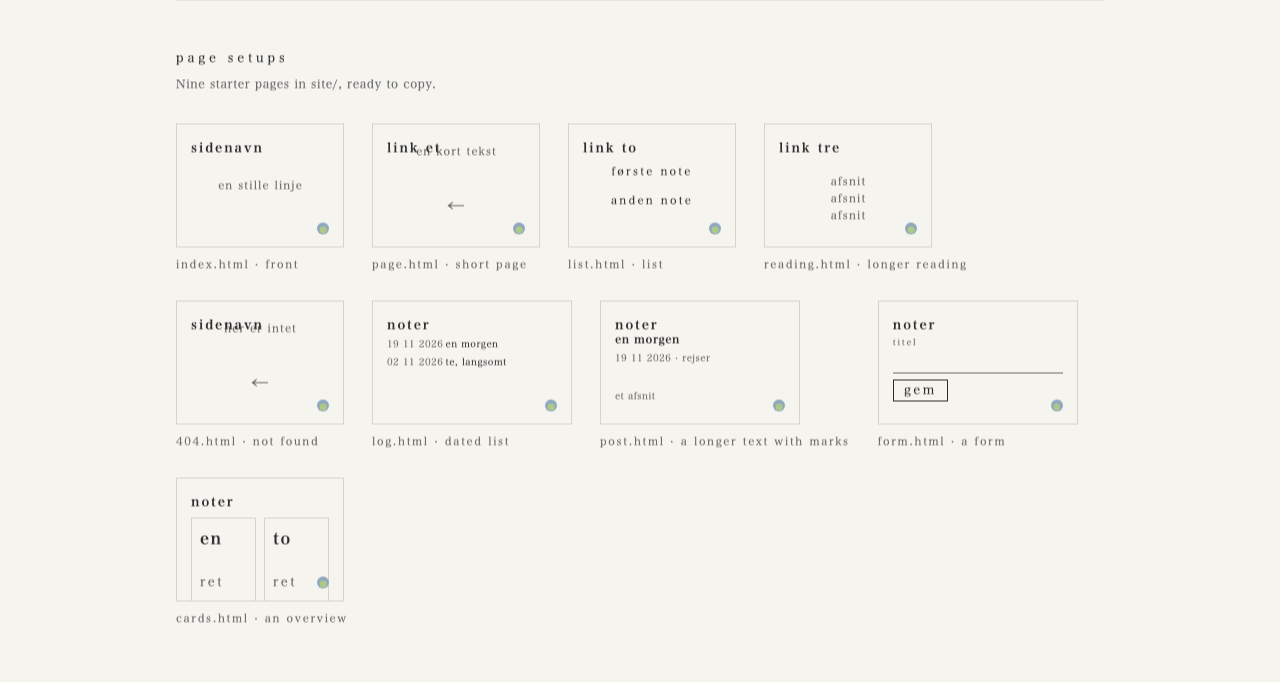
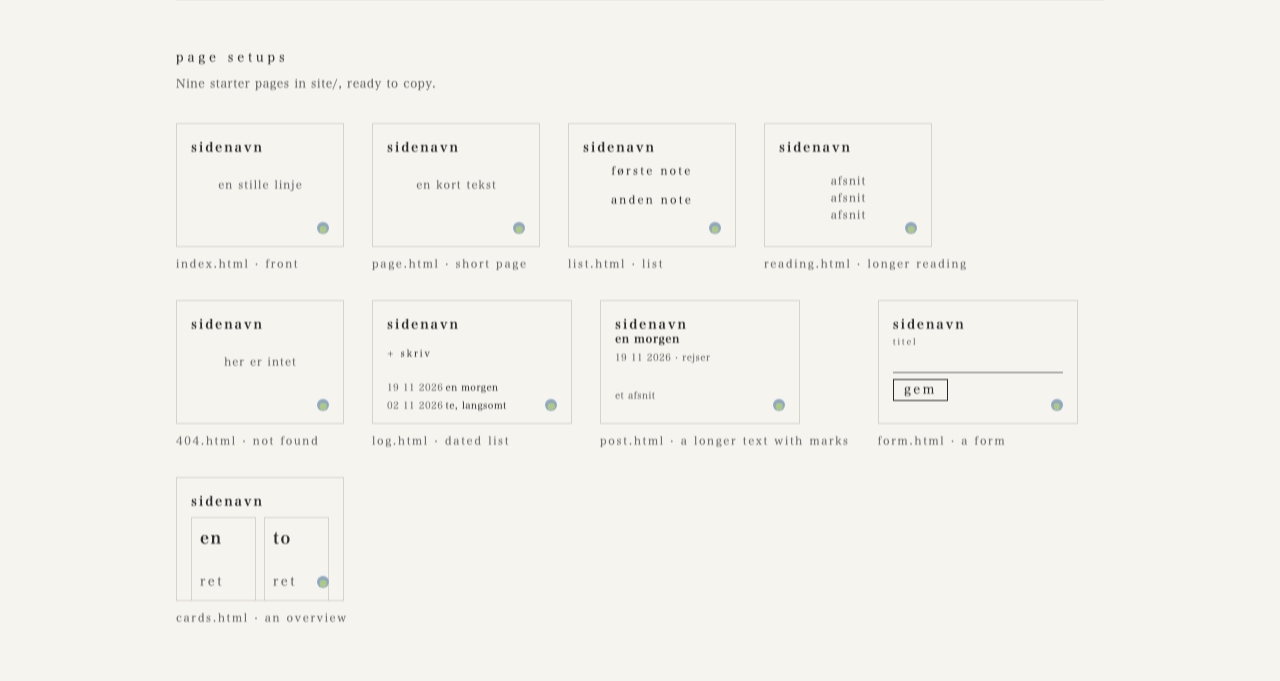
feat: corner title home, current page underlined, add link, stamp as a link; back arrow deprecated (1.6.0)

diff --git a/specimen/index.html b/specimen/index.html
@@ -76,15 +76,18 @@
     <h2>pieces, in every state</h2>
     <p>The real theme pieces. Hover, focus and selection are drawn still so you can see them without touching. The last row is live: hover it, or reach it with Tab.</p>
     <div class="grid" lang="da" inert>
-      <div><div class="frame"><nav class="menu"><ul class="menu-links"><li><a href="#" aria-current="page">et</a></li><li><span class="dot">·</span><a href="#">to</a></li></ul><details class="more"><summary>…</summary></details></nav></div><p class="cap" lang="en">menu · current page in ink</p></div>
+      <div><div class="frame"><nav class="menu"><ul class="menu-links"><li><a href="#" aria-current="page">et</a></li><li><span class="dot">·</span><a href="#">to</a></li></ul><details class="more"><summary>…</summary></details></nav></div><p class="cap" lang="en">menu · current page underlined</p></div>
       <div><div class="frame"><nav class="menu"><details class="more" open><summary>…</summary><ul><li><a href="#">link fire</a></li><li><a href="#">link fem</a></li></ul></details></nav></div><p class="cap" lang="en">… open</p></div>
       <div><div class="frame"><nav class="menu"><ul class="menu-links"><li><a href="#" class="show-hover">et</a></li><li><span class="dot">·</span><a href="#" class="show-focus">to</a></li></ul></nav></div><p class="cap" lang="en">hover (et) · focus (to)</p></div>
       <div><div class="frame"><form class="menu lock"><label class="lock-icon"><svg width="12" height="14" viewBox="0 0 16 18" fill="none" stroke="currentColor" stroke-width="1.2" focusable="false"><rect x="2" y="8" width="12" height="9" rx="1"/><path d="M4.5 8V5.5a3.5 3.5 0 0 1 7 0V8"/></svg></label></form></div><p class="cap" lang="en">lock closed</p></div>
       <div><div class="frame"><form class="menu lock" data-open><input class="lock-field" type="text" placeholder="adgangskode" aria-label="adgangskode"></form></div><p class="cap" lang="en">lock open</p></div>
-      <div><div class="frame"><main class="center"><p class="line">en <span class="show-selection">stille</span> linje</p><a class="back" href="#">←</a></main></div><p class="cap" lang="en">selection · back arrow</p></div>
+      <div><div class="frame"><main class="center"><p class="line">en <span class="show-selection">stille</span> linje</p></main></div><p class="cap" lang="en">selection</p></div>
+      <div><div class="frame"><main class="center"><a class="name" href="#">sidenavn</a><p class="line">en stille linje</p></main></div><p class="cap" lang="en">corner title · a link home</p></div>
       <div><div class="frame"><main class="center"><p class="line">en stille linje</p><span class="stamp"></span></main></div><p class="cap" lang="en">stamp, bottom right</p></div>
+      <div><div class="frame"><main class="center"><p class="line">en stille linje</p><a class="stamp show-focus" href="#"></a></main></div><p class="cap" lang="en">stamp as a link · focus</p></div>
       <div><div class="frame"><div class="menu"><form class="lock"><label class="lock-icon"><svg width="12" height="14" viewBox="0 0 16 18" fill="none" stroke="currentColor" stroke-width="1.2" focusable="false"><rect x="2" y="8" width="12" height="9" rx="1"/><path d="M4.5 8V5.5a3.5 3.5 0 0 1 7 0V8"/></svg></label></form><a class="menu-side" href="#">noter</a></div></div><p class="cap" lang="en">side link beside the lock</p></div>
       <div><div class="frame"><main class="center reading"><ol class="log"><li><time class="log-date">19 11 2026</time><a href="#">en morgen</a></li><li><time class="log-date">02 11 2026</time><a href="#">te, langsomt</a></li></ol></main></div><p class="cap" lang="en">log · grey dates, ink titles</p></div>
+      <div><div class="frame"><main class="center reading"><a class="add" href="#">+ skriv</a><ol class="log"><li><time class="log-date">19 11 2026</time><a href="#">en morgen</a></li></ol></main></div><p class="cap" lang="en">add link · above a list</p></div>
       <div><div class="frame"><main class="center reading"><p class="title">en morgen</p><p class="meta">19 11 2026 · <a href="#">rejser</a></p></main></div><p class="cap" lang="en">title · meta</p></div>
       <div><div class="frame"><main class="center reading"><div class="prose"><h2>en overskrift</h2><p>tekst med <em>kursiv</em>, <strong>fed</strong> og <a href="#">et link</a>.</p></div></main></div><p class="cap" lang="en">prose</p></div>
       <div><div class="frame"><main class="center reading"><div class="form"><label class="field-label">titel</label><input class="field" type="text" value="en morgen"><p class="notice">skriv en titel</p><div class="actions"><button class="button" type="button">gem</button><a href="#">fortryd</a></div></div></main></div><p class="cap" lang="en">form · field, message, button</p></div>
@@ -95,8 +98,8 @@
     </div>
     <p class="cap"><b>live</b></p>
     <div class="live" lang="da">
-      <a class="back" href="#pieces" aria-label="Tilbage til forsiden">←</a>
-      <nav class="menu" aria-label="Menu"><ul class="menu-links"><li><a href="#pieces">link et</a></li><li><span class="dot" aria-hidden="true">·</span><a href="#pieces">link to</a></li></ul><details class="more"><summary aria-label="Flere links">…</summary><ul><li><a href="#pieces">link fire</a></li></ul></details></nav>
+      <a class="name" href="#pieces">sidenavn</a>
+      <nav class="menu" aria-label="Menu"><ul class="menu-links"><li><a href="#pieces" aria-current="page">link et</a></li><li><span class="dot" aria-hidden="true">·</span><a href="#pieces">link to</a></li></ul><details class="more"><summary aria-label="Flere links">…</summary><ul><li><a href="#pieces">link fire</a></li></ul></details></nav>
     </div>
   </section>
 
@@ -105,14 +108,14 @@
     <p>Nine starter pages in site/, ready to copy.</p>
     <div class="grid" lang="da" inert>
       <div><div class="frame frame-thumb"><main class="center"><p class="name">sidenavn</p><p class="line">en stille linje</p><span class="stamp"></span></main></div><p class="cap" lang="en">index.html · front</p></div>
-      <div><div class="frame frame-thumb"><main class="center"><p class="name">link et</p><p class="line">en kort tekst</p><a class="back" href="#">←</a><span class="stamp"></span></main></div><p class="cap" lang="en">page.html · short page</p></div>
-      <div><div class="frame frame-thumb"><main class="center"><p class="name">link to</p><ul class="list"><li>første note</li><li>anden note</li></ul><span class="stamp"></span></main></div><p class="cap" lang="en">list.html · list</p></div>
-      <div><div class="frame frame-thumb"><main class="center reading"><p class="name">link tre</p><p class="line">afsnit</p><p class="line">afsnit</p><p class="line">afsnit</p><span class="stamp"></span></main></div><p class="cap" lang="en">reading.html · longer reading</p></div>
-      <div><div class="frame frame-thumb"><main class="center"><p class="name">sidenavn</p><p class="line">her er intet</p><a class="back" href="#">←</a><span class="stamp"></span></main></div><p class="cap" lang="en">404.html · not found</p></div>
-      <div><div class="frame frame-thumb"><main class="center reading"><p class="name">noter</p><ol class="log"><li><time class="log-date">19 11 2026</time><a href="#">en morgen</a></li><li><time class="log-date">02 11 2026</time><a href="#">te, langsomt</a></li></ol><span class="stamp"></span></main></div><p class="cap" lang="en">log.html · dated list</p></div>
-      <div><div class="frame frame-thumb"><main class="center reading"><p class="name">noter</p><p class="title">en morgen</p><p class="meta">19 11 2026 · rejser</p><div class="prose"><p>et afsnit</p></div><span class="stamp"></span></main></div><p class="cap" lang="en">post.html · a longer text with marks</p></div>
-      <div><div class="frame frame-thumb"><main class="center reading"><p class="name">noter</p><div class="form"><label class="field-label">titel</label><input class="field" type="text"><div class="actions"><button class="button" type="button">gem</button></div></div><span class="stamp"></span></main></div><p class="cap" lang="en">form.html · a form</p></div>
-      <div><div class="frame frame-thumb"><main class="wide"><p class="name">noter</p><ul class="cards"><li class="card"><p class="card-name">en</p><div class="card-actions"><a href="#">ret</a></div></li><li class="card"><p class="card-name">to</p><div class="card-actions"><a href="#">ret</a></div></li></ul><span class="stamp"></span></main></div><p class="cap" lang="en">cards.html · an overview</p></div>
+      <div><div class="frame frame-thumb"><main class="center"><p class="name">sidenavn</p><p class="line">en kort tekst</p><span class="stamp"></span></main></div><p class="cap" lang="en">page.html · short page</p></div>
+      <div><div class="frame frame-thumb"><main class="center"><p class="name">sidenavn</p><ul class="list"><li>første note</li><li>anden note</li></ul><span class="stamp"></span></main></div><p class="cap" lang="en">list.html · list</p></div>
+      <div><div class="frame frame-thumb"><main class="center reading"><p class="name">sidenavn</p><p class="line">afsnit</p><p class="line">afsnit</p><p class="line">afsnit</p><span class="stamp"></span></main></div><p class="cap" lang="en">reading.html · longer reading</p></div>
+      <div><div class="frame frame-thumb"><main class="center"><p class="name">sidenavn</p><p class="line">her er intet</p><span class="stamp"></span></main></div><p class="cap" lang="en">404.html · not found</p></div>
+      <div><div class="frame frame-thumb"><main class="center reading"><p class="name">sidenavn</p><p class="add">+ skriv</p><ol class="log"><li><time class="log-date">19 11 2026</time><a href="#">en morgen</a></li><li><time class="log-date">02 11 2026</time><a href="#">te, langsomt</a></li></ol><span class="stamp"></span></main></div><p class="cap" lang="en">log.html · dated list</p></div>
+      <div><div class="frame frame-thumb"><main class="center reading"><p class="name">sidenavn</p><p class="title">en morgen</p><p class="meta">19 11 2026 · rejser</p><div class="prose"><p>et afsnit</p></div><span class="stamp"></span></main></div><p class="cap" lang="en">post.html · a longer text with marks</p></div>
+      <div><div class="frame frame-thumb"><main class="center reading"><p class="name">sidenavn</p><div class="form"><label class="field-label">titel</label><input class="field" type="text"><div class="actions"><button class="button" type="button">gem</button></div></div><span class="stamp"></span></main></div><p class="cap" lang="en">form.html · a form</p></div>
+      <div><div class="frame frame-thumb"><main class="wide"><p class="name">sidenavn</p><ul class="cards"><li class="card"><p class="card-name">en</p><div class="card-actions"><a href="#">ret</a></div></li><li class="card"><p class="card-name">to</p><div class="card-actions"><a href="#">ret</a></div></li></ul><span class="stamp"></span></main></div><p class="cap" lang="en">cards.html · an overview</p></div>
     </div>
   </section>
 

diff --git a/site/theme.css b/site/theme.css
@@ -1,4 +1,4 @@
-/* hyvnl-theme 1.5.0
+/* hyvnl-theme 1.6.0
    The shared look for my sites: ink on paper, lots of empty space.
    Don't edit this copy. Change it in the hyvnl-theme repo, then copy it in again.
    Guide: GUIDE.md in the hyvnl-theme repo. */
@@ -108,6 +108,8 @@ a, .lock-icon { transition: color var(--ink-fade) ease; }
   line-height: 2.2;
 }
 .phone-only { display: none; }
+/* The current page: ink and a thin underline, in the row and in "…" (1.6.0). */
+.menu a[aria-current="page"] { text-decoration: underline; text-decoration-thickness: 1px; text-underline-offset: 0.45em; }
 
 /* ---------- centre: everything else sits in the middle of the screen ---------- */
 .center {
@@ -140,6 +142,8 @@ a, .lock-icon { transition: color var(--ink-fade) ease; }
   letter-spacing: 0.15em;
   white-space: nowrap;
 }
+/* As a link home (1.6.0), it keeps the plain title's ink. */
+a.name { color: var(--ink); }
 
 /* ---------- centred line (padding-left balances the letter spacing) ---------- */
 .line {
@@ -173,7 +177,9 @@ a, .lock-icon { transition: color var(--ink-fade) ease; }
 }
 .list + .back { margin-top: 16px; }
 
-/* ---------- back arrow ---------- */
+/* ---------- back arrow: deprecated in 1.6.0 ----------
+   Kept so pages made for older versions look the same; removed in 2.0.0. New pages use the corner
+   title (a link home) and the menu instead. */
 .back {
   display: block;
   width: var(--tap);
@@ -223,6 +229,20 @@ a, .lock-icon { transition: color var(--ink-fade) ease; }
 .prose + .meta, .log + .meta { margin-top: 2.4em; }
 .meta + .back, .prose + .back, .log + .back, .form + .back, .line + .back { margin-top: 24px; }
 .line + .form { margin-top: 2em; }
+
+/* ---------- add link: a small, quiet "+ word" just above a list (1.6.0) ----------
+   <a class="add" href="…">+ skriv</a>, only for those who may add to the list. */
+.add {
+  display: block;
+  width: 100%;
+  max-width: var(--column);
+  text-align: left;
+  line-height: var(--tap);
+  font-size: var(--size-menu);
+  letter-spacing: 0.2em;
+}
+.title + .add { margin-top: 1.2em; }
+.add + .log { margin-top: 0.6em; }
 
 /* ---------- log: grey dates next to ink titles ---------- */
 .log {
@@ -464,7 +484,9 @@ a, .lock-icon { transition: color var(--ink-fade) ease; }
 .lock:focus-within .lock-icon, .lock[data-open] .lock-icon { display: none; }
 
 /* ---------- stamp: a faded blue dot with a lime dot low inside, bottom right ----------
-   Decoration only: <span class="stamp" aria-hidden="true"></span> as the last thing in main.center. */
+   Decoration: <span class="stamp" aria-hidden="true"></span> as the last thing in main.center.
+   Or a link (1.6.0): <a class="stamp" href="…" aria-label="…"></a>. Same look; an invisible 44px
+   square around the dot takes the tap, so nothing on the page moves. */
 .stamp {
   position: absolute;
   right: var(--edge-left);
@@ -485,6 +507,8 @@ a, .lock-icon { transition: color var(--ink-fade) ease; }
   border-radius: 50%;
   background: var(--stamp-lime);
 }
+a.stamp::before { content: ""; position: absolute; left: -16px; top: -16px; width: var(--tap); height: var(--tap); }
+a.stamp:focus-visible { outline: 1px solid var(--ink); outline-offset: 4px; }
 
 /* ---------- read by screen readers only ---------- */
 .visually-hidden {
@@ -508,7 +532,7 @@ a, .lock-icon { transition: color var(--ink-fade) ease; }
 /* ---------- print: ink on white paper, title and words only ---------- */
 @media print {
   body { background: #fff; color: #000; }
-  .menu, .back, .stamp, .form, .actions, .card-actions { display: none; }
+  .menu, .back, .add, .stamp, .form, .actions, .card-actions { display: none; }
   .wide { padding: 0; }
   .cards { display: block; }
   .card { min-height: 0; margin-bottom: 1em; }

diff --git a/site/reading.html b/site/reading.html
@@ -28,12 +28,12 @@
   </details>
 </nav>
 <main class="center reading">
-  <h1 class="name">link tre</h1>
+  <a class="name" href="/">sidenavn</a>
+  <h1 class="visually-hidden">link tre</h1>
   <p class="text">Første afsnit. En længere tekst begynder højere oppe på siden, så man kan læse nedad i ro. Linjerne er grå og har god luft imellem sig.</p>
   <p class="text">Andet afsnit. Samme grå, samme bredde, samme luft. Teksten bliver aldrig bredere end en rolig linje, heller ikke på en stor skærm.</p>
   <p class="text">Tredje afsnit. Når teksten er slut, kommer pilen tilbage til forsiden, og stemplet ligger stille nederst i hjørnet.</p>
   <p class="text">Fjerde afsnit. Skift teksten ud med din egen, og brug så mange afsnit som siden har brug for.</p>
-  <a class="back" href="/" aria-label="Tilbage til forsiden">←</a>
   <span class="stamp" aria-hidden="true"></span>
 </main>
 </body>

diff --git a/site/log.html b/site/log.html
@@ -29,7 +29,9 @@
   </details>
 </nav>
 <main class="center reading">
-  <h1 class="name">noter</h1>
+  <a class="name" href="/">sidenavn</a>
+  <h1 class="visually-hidden">noter</h1>
+  <a class="add" href="/form.html">+ skriv</a>
   <ol class="log">
     <li><time class="log-date" datetime="2026-11-19">19 11 2026</time><a href="/post.html">en morgen</a></li>
     <li><time class="log-date" datetime="2026-11-12">12 11 2026</time><a href="/post.html">te, langsomt</a></li>
@@ -37,7 +39,6 @@
     <li><time class="log-date" datetime="2026-10-28">28 10 2026</time><a href="/post.html">efterår</a></li>
   </ol>
   <p class="meta"><a href="#">ældre</a></p>
-  <a class="back" href="/" aria-label="Tilbage til forsiden">←</a>
   <span class="stamp" aria-hidden="true"></span>
 </main>
 </body>

diff --git a/site/form.html b/site/form.html
@@ -29,7 +29,7 @@
   </details>
 </nav>
 <main class="center reading">
-  <a class="name" href="/log.html">noter</a>
+  <a class="name" href="/">sidenavn</a>
   <h1 class="title">skriv</h1>
   <form class="form" method="post" action="/gem">
     <label class="field-label" for="titel">titel</label>
@@ -50,7 +50,6 @@
     </fieldset>
     <div class="actions"><button class="button" type="submit">gem</button><a href="/log.html">fortryd</a></div>
   </form>
-  <a class="back" href="/" aria-label="Tilbage til forsiden">←</a>
   <span class="stamp" aria-hidden="true"></span>
 </main>
 </body>

diff --git a/site/post.html b/site/post.html
@@ -29,7 +29,7 @@
   </details>
 </nav>
 <main class="center reading">
-  <a class="name" href="/log.html">noter</a>
+  <a class="name" href="/">sidenavn</a>
   <h1 class="title">en morgen</h1>
   <p class="meta"><time datetime="2026-11-19">19 11 2026</time> · <a href="/log.html">rejser</a> · <a href="/log.html">te</a></p>
   <div class="prose">
@@ -47,7 +47,6 @@
       <li>bagefter</li>
     </ol>
   </div>
-  <a class="back" href="/" aria-label="Tilbage til forsiden">←</a>
   <span class="stamp" aria-hidden="true"></span>
 </main>
 </body>

diff --git a/site/list.html b/site/list.html
@@ -28,14 +28,14 @@
   </details>
 </nav>
 <main class="center">
-  <h1 class="name">link to</h1>
+  <a class="name" href="/">sidenavn</a>
+  <h1 class="visually-hidden">link to</h1>
   <ul class="list">
     <li><a href="#">første note</a></li>
     <li><a href="#">anden note</a></li>
     <li><a href="#">tredje note</a></li>
     <li><a href="#">fjerde note</a></li>
   </ul>
-  <a class="back" href="/" aria-label="Tilbage til forsiden">←</a>
   <span class="stamp" aria-hidden="true"></span>
 </main>
 </body>

diff --git a/site/cards.html b/site/cards.html
@@ -29,7 +29,7 @@
   </details>
 </nav>
 <main class="wide">
-  <a class="name" href="/log.html">noter</a>
+  <a class="name" href="/">sidenavn</a>
   <div class="head">
     <h1 class="title">oversigt</h1>
     <details class="pop pop-add" name="kort"><summary aria-label="ny note">+</summary><div class="pop-panel">
@@ -90,7 +90,6 @@
       </div>
     </li>
   </ul>
-  <a class="back" href="/" aria-label="Tilbage til forsiden">←</a>
   <span class="stamp" aria-hidden="true"></span>
 </main>
 </body>

diff --git a/specimen/specimen.css b/specimen/specimen.css
@@ -106,7 +106,8 @@ body { height: auto; }
 
 /* the live row: real pieces you can hover and Tab to */
 .live { position: relative; height: 64px; max-width: 420px; border: 1px solid var(--hairline); }
-.live .back { position: absolute; left: 8px; top: 10px; }
+.live .name { left: 8px; top: 10px; line-height: 1; padding: 6px 0; }
+.frame .add { font-size: 0.6rem; line-height: 2; }
 
 /* do / don't: the wrong examples, only here */
 .dont-big { font-size: 1.6rem; }

diff --git a/site/page.html b/site/page.html
@@ -28,9 +28,9 @@
   </details>
 </nav>
 <main class="center">
-  <h1 class="name">link et</h1>
+  <a class="name" href="/">sidenavn</a>
+  <h1 class="visually-hidden">link et</h1>
   <p class="text">Her står en kort tekst. Den er grå, rolig og aldrig for bred, så den er let at læse. Skift den ud med din egen.</p>
-  <a class="back" href="/" aria-label="Tilbage til forsiden">←</a>
   <span class="stamp" aria-hidden="true"></span>
 </main>
 </body>

diff --git a/site/404.html b/site/404.html
@@ -28,9 +28,9 @@
   </details>
 </nav>
 <main class="center">
-  <h1 class="name">sidenavn</h1>
+  <a class="name" href="/">sidenavn</a>
+  <h1 class="visually-hidden">ikke fundet</h1>
   <p class="line">her er intet</p>
-  <a class="back" href="/" aria-label="Tilbage til forsiden">←</a>
   <span class="stamp" aria-hidden="true"></span>
 </main>
 </body>

diff --git a/site/index.html b/site/index.html
@@ -28,7 +28,8 @@
   </details>
 </nav>
 <main class="center">
-  <h1 class="name">sidenavn</h1>
+  <a class="name" href="/">sidenavn</a>
+  <h1 class="visually-hidden">sidenavn</h1>
   <p class="line">en stille linje</p>
   <span class="stamp" aria-hidden="true"></span>
 </main>
